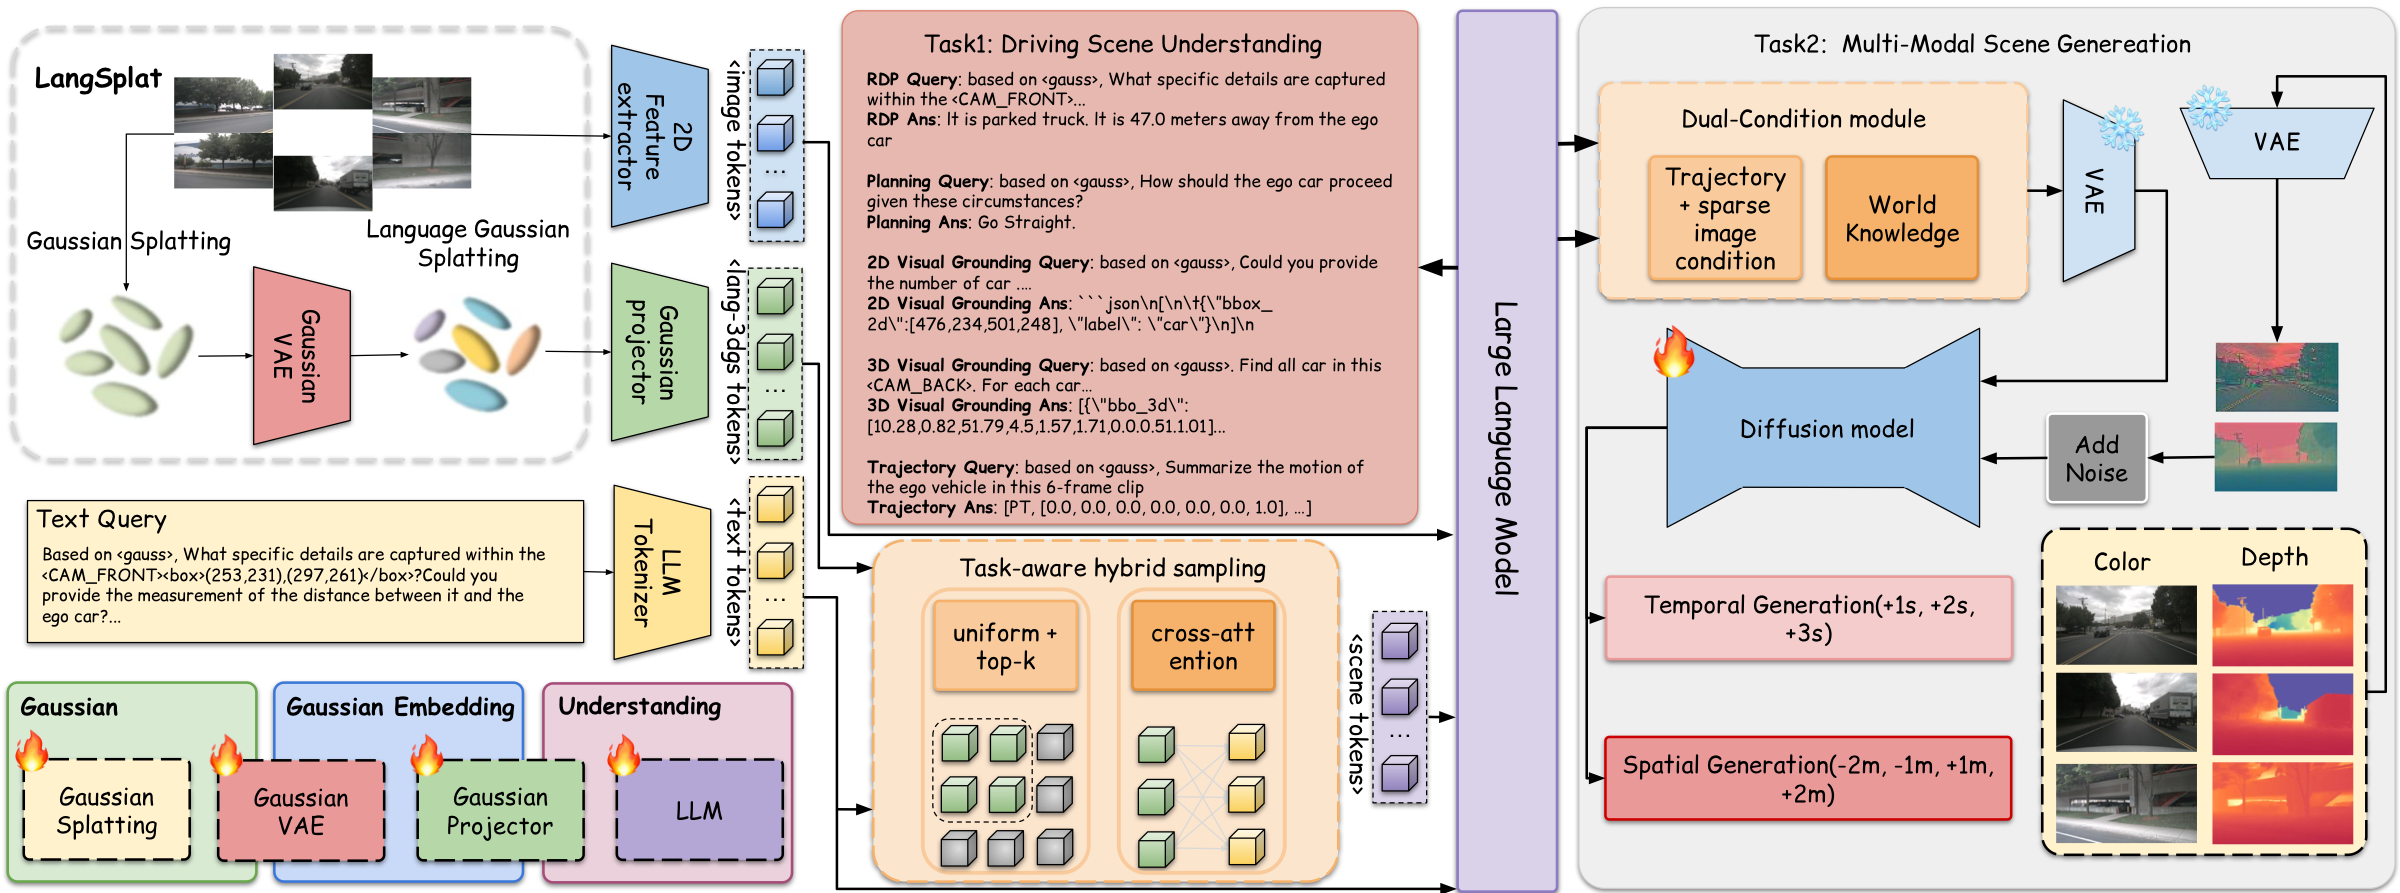
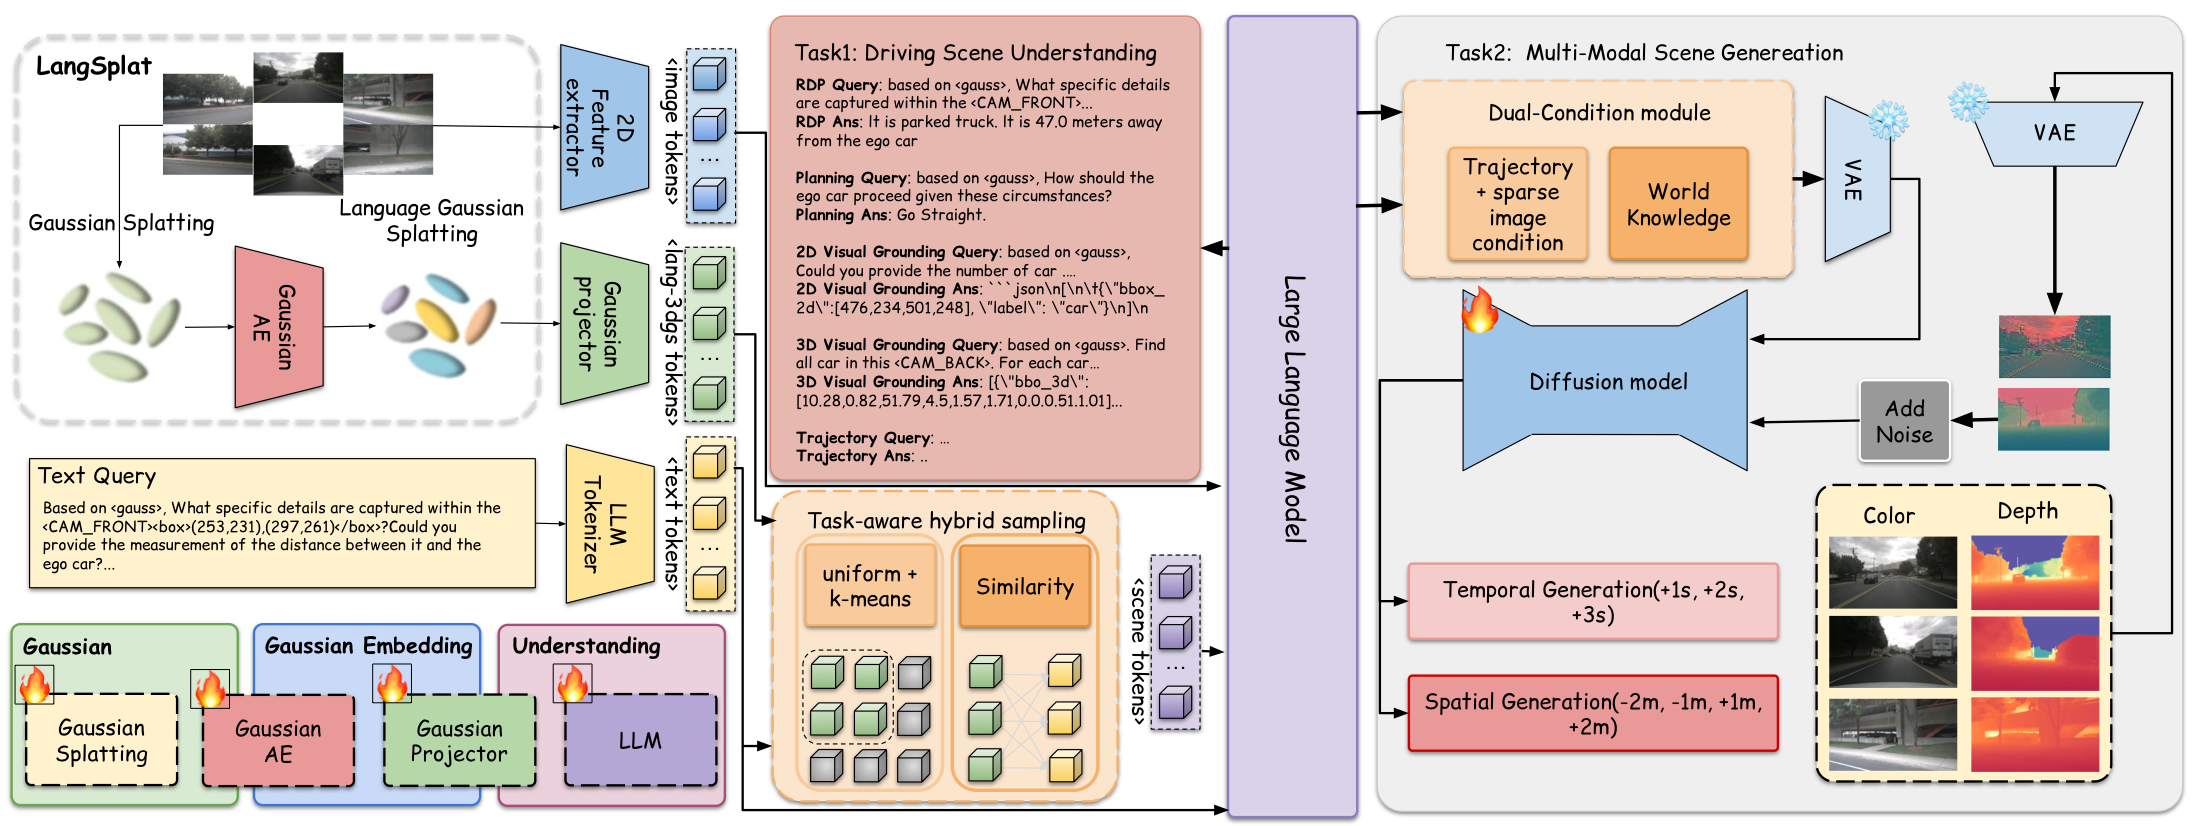
Update project page figure and depth caption

diff --git a/index.html b/index.html
@@ -178,8 +178,7 @@
           <source src="assets/grid_left_offset_depth_3x4.mp4" type="video/mp4" />
         </video>
         <p class="figure-note">
-          Left-offset depth generation: GaussianDWM maintains depth consistency when rendering the
-          scene from the opposite lateral direction.
+          Depth generation: GaussianDWM maintains depth consistency when rendering the scene.
         </p>
       </section>
 